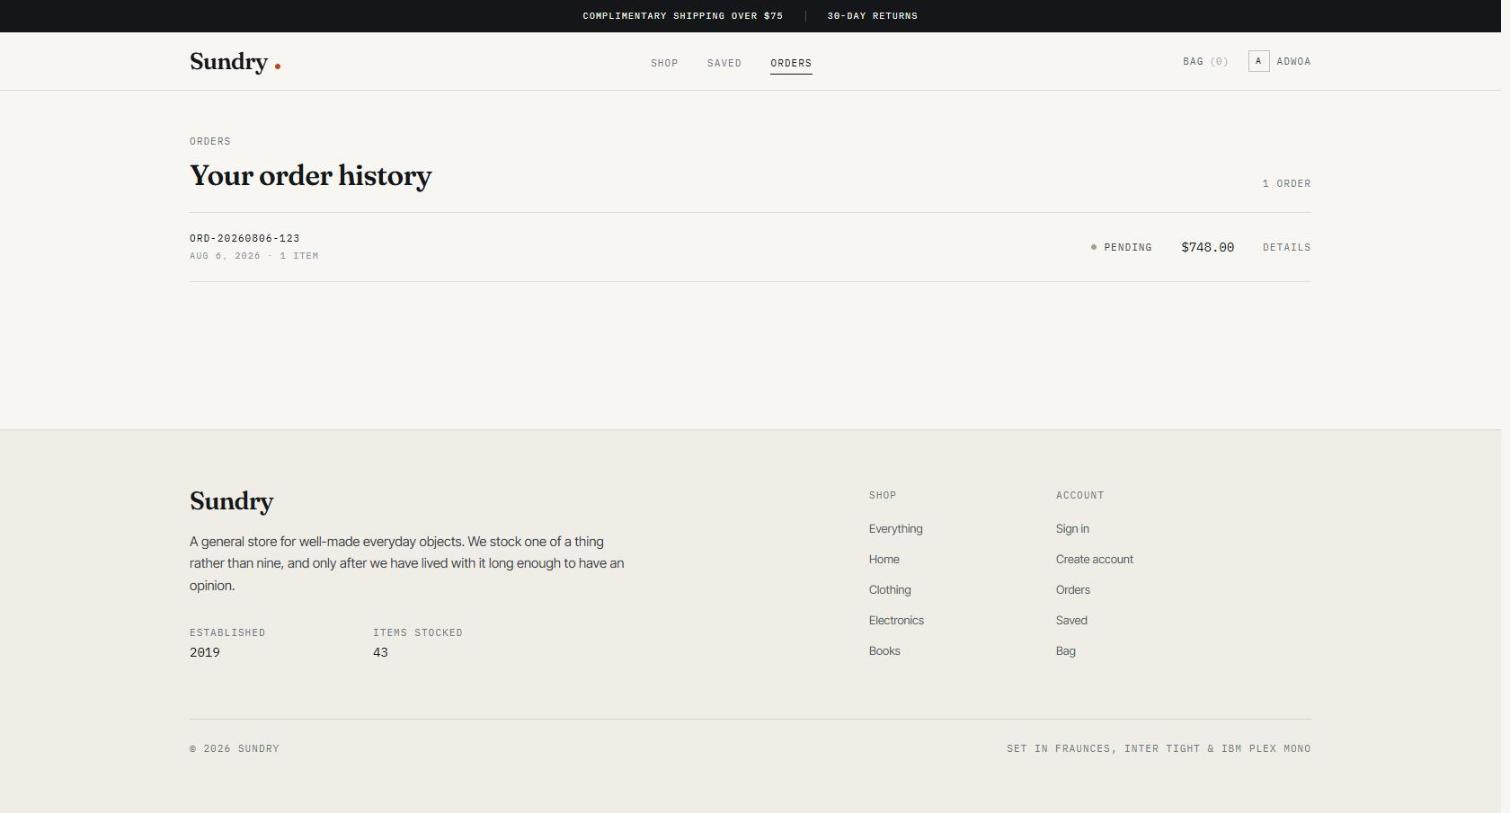
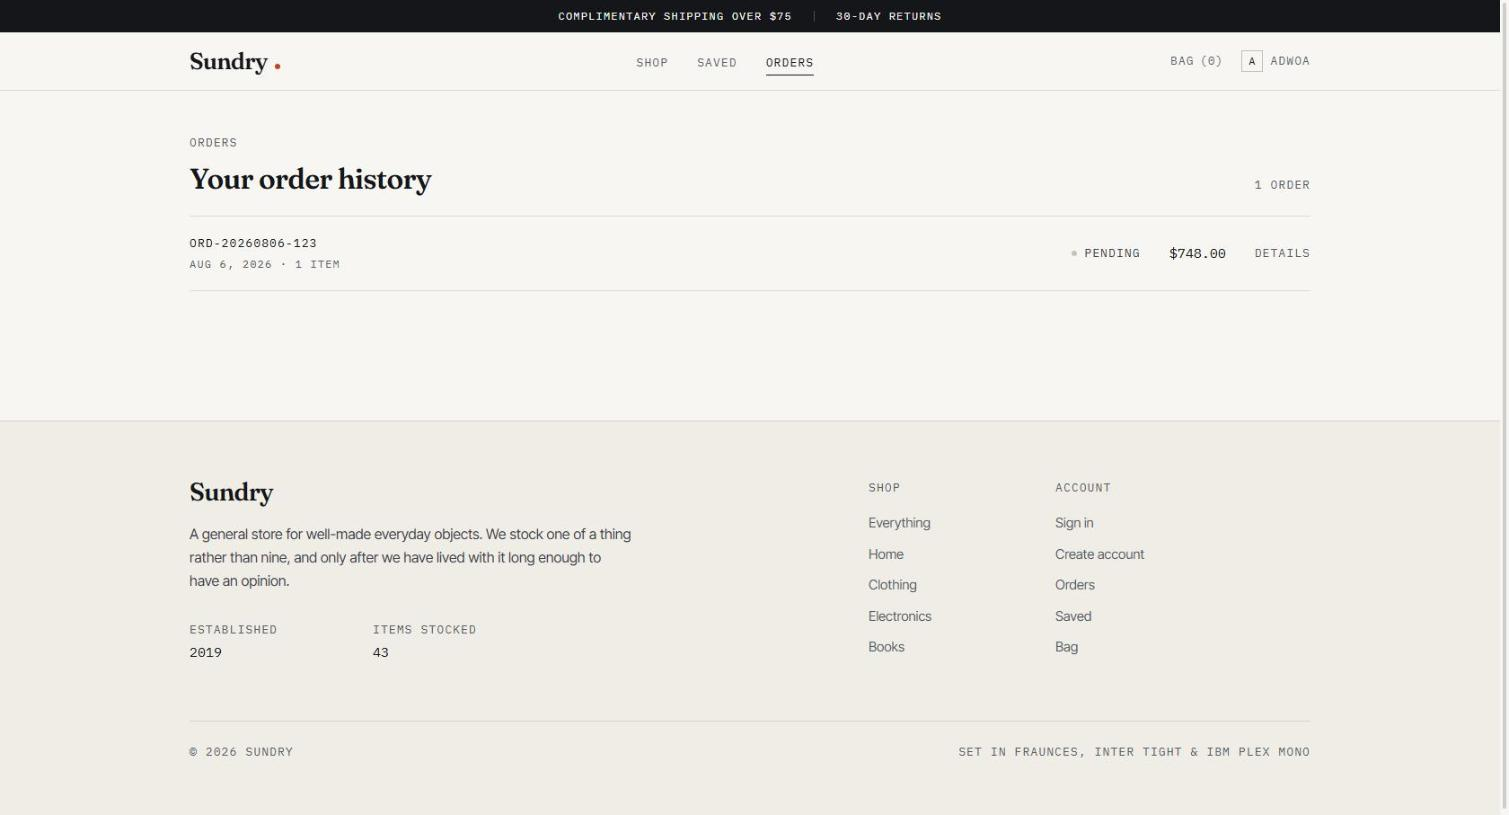
Retake README screenshots against the corrected type and contrast

diff --git a/README.md b/README.md
@@ -38,6 +38,13 @@ The palette is printing ink on paper stock: a warm off-white ground
 rules and a step in background tone, the way a printed catalogue divides one
 cell from the next.
 
+Restraint is not an excuse for grey-on-white. Every text colour meets **WCAG AA**
+against the ground it sits on: `ink-600` (6.22:1) is the floor for anything
+carrying meaning, and body copy is 15–16px with metadata at 12–14px. Only
+disabled controls sit lighter, which WCAG 1.4.3 exempts. It was checked by
+walking the rendered DOM and computing the contrast of every text node rather
+than by eye.
+
 Product photography was chosen, not scraped. Every image is a real Unsplash
 photograph picked for a neutral ground and soft light so the grid reads as one
 shop, and every URL is verified before it can be seeded:
